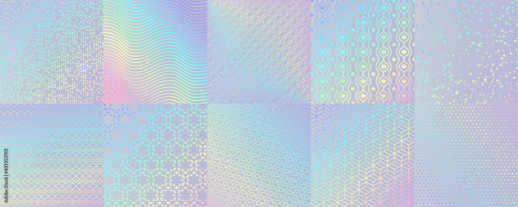
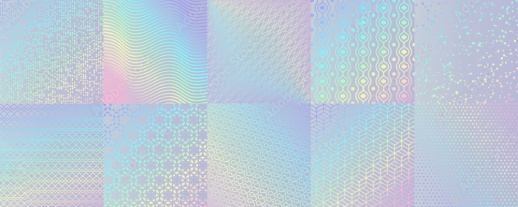
Add holofoil swatch image and How It Works updates

diff --git a/components/HowItWorksScreen.js b/components/HowItWorksScreen.js
@@ -3,13 +3,11 @@ import { Dimensions, Image, ScrollView, StyleSheet, Text, View } from 'react-nat
 import { colors, radius, shadow, spacing } from '../theme';
 
 const EXPLODED_VIEW_IMAGE = require('../artwork/zz_HowItWorks_011.png');
-// Reads the same build-time asset metadata Metro embeds for the local PNG —
-// no network round trip needed (unlike Image.getSize, which is for remote URIs).
-const EXPLODED_VIEW_SOURCE = Image.resolveAssetSource(EXPLODED_VIEW_IMAGE);
-const EXPLODED_VIEW_RATIO = EXPLODED_VIEW_SOURCE.width / EXPLODED_VIEW_SOURCE.height;
+// Image.resolveAssetSource() is native-only and throws on react-native-web,
+// so the known pixel dimensions of these fixed local assets are hardcoded here.
+const EXPLODED_VIEW_RATIO = 518 / 385;
 const HOLOFOIL_SWATCH_IMAGE = require('../artwork/zz_HowItWorks_012.png');
-const HOLOFOIL_SWATCH_SOURCE = Image.resolveAssetSource(HOLOFOIL_SWATCH_IMAGE);
-const HOLOFOIL_SWATCH_RATIO = HOLOFOIL_SWATCH_SOURCE.width / HOLOFOIL_SWATCH_SOURCE.height;
+const HOLOFOIL_SWATCH_RATIO = 518 / 207;
 const ESTIMATED_CONTENT_WIDTH = Dimensions.get('window').width - spacing.md * 2;
 
 function Section({ title, children }) {
